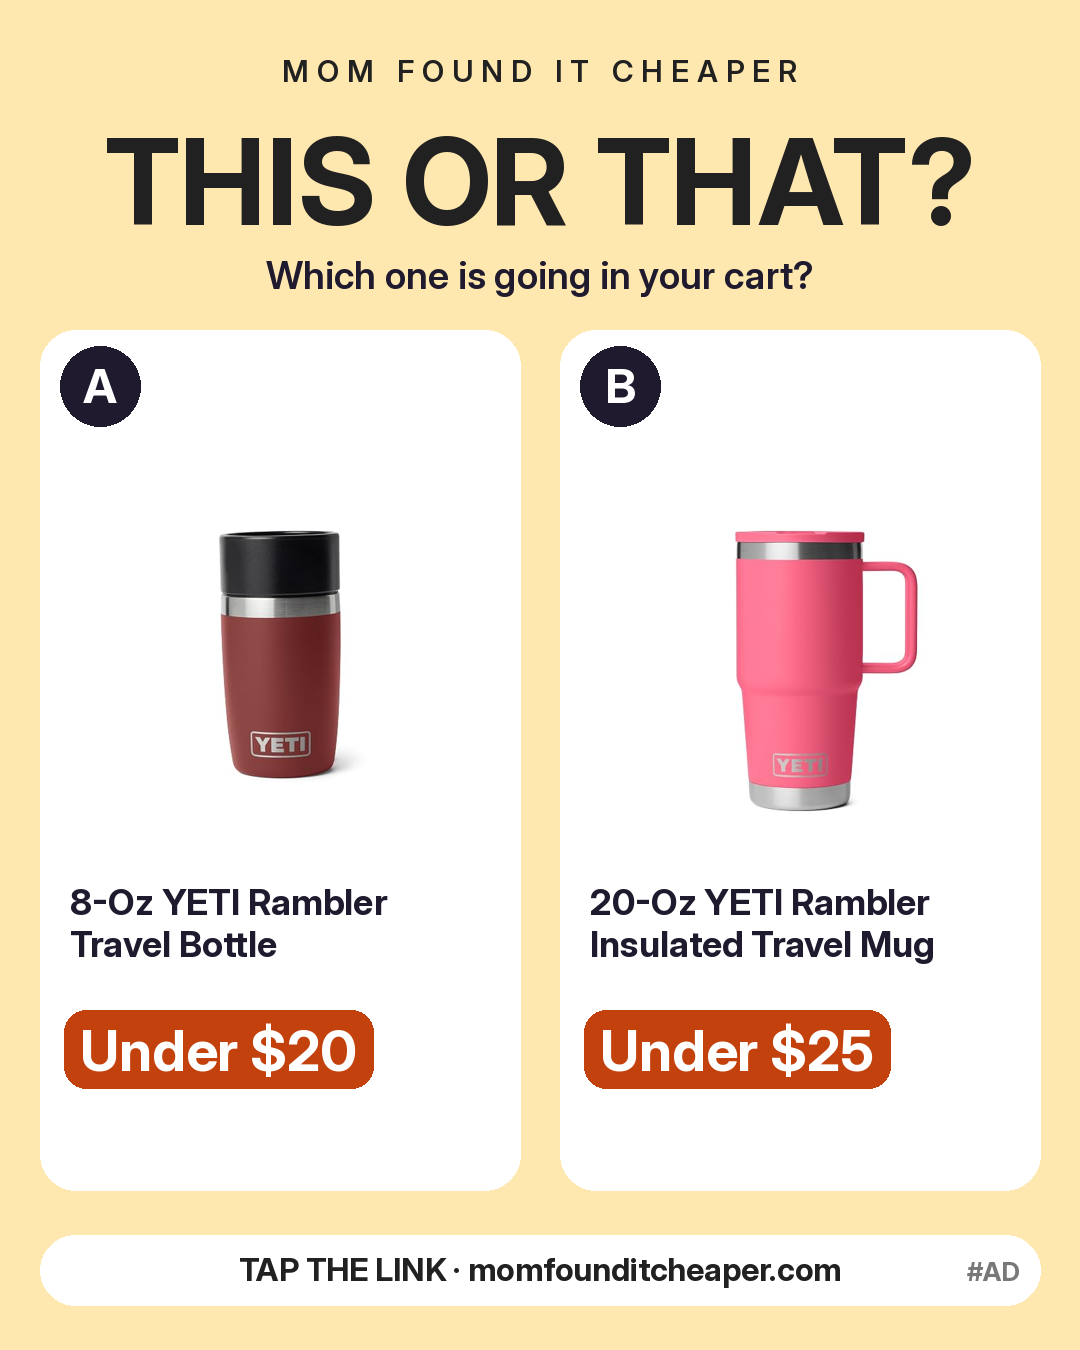
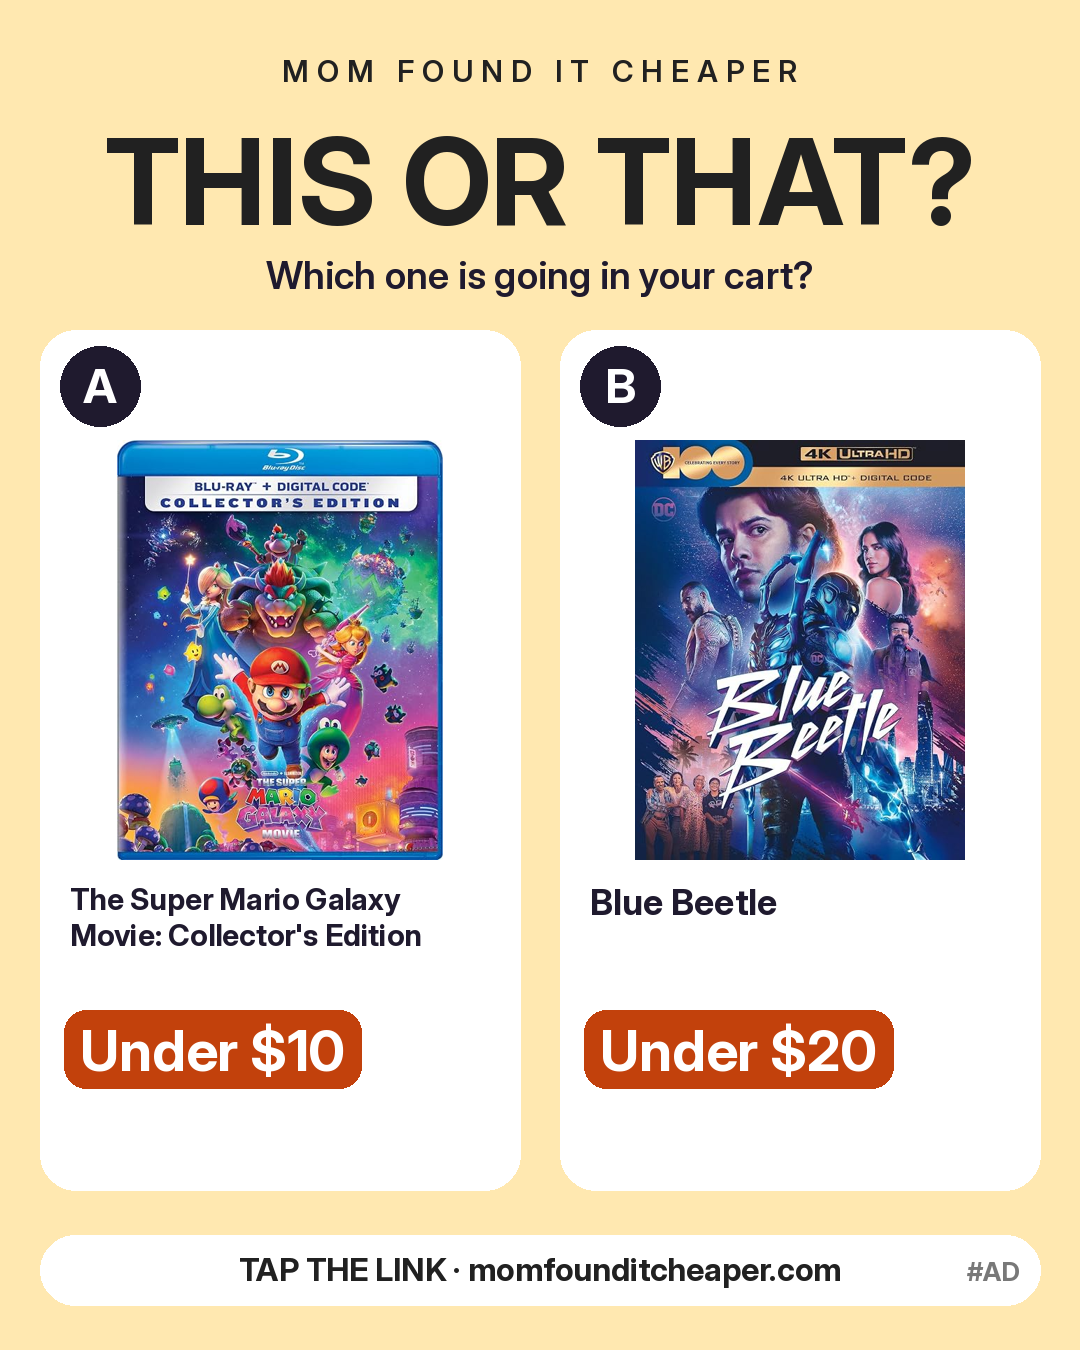
Update videos list

diff --git a/queue/QUEUE.md b/queue/QUEUE.md
@@ -2,46 +2,20 @@
 
 Reply with the numbers to approve, e.g. `post 1, q2; video 3; eng poll`. Nothing is posted until you say so.
 
-## Posts that passed strict QA (8)
-### post_1 — Under $10 finds (ok with warnings)
+## Posts that passed strict QA (2)
+### post_single — Mom's pick (ok with warnings)
 ```
 CAPTION:
-✨ Under $10 finds: HAMUNI Slouchy Beanie Unisex Soft Lightweight Headwear AC, 13" Franklin Sports Field Master V Web Baseball Mitt and Vaydeer Bluetooth Phone Lock Box
-Tell us which one you want and we will keep an eye out for more like it.
-All three, checked against Amazon this morning: https://momfounditcheaper.com/
+Mia's pick today: 12-pc Wiha 79243 Slotted Phillips & Torx Bit Selector.
+Checked against Amazon this morning. Tap for today's price.
+See it here: https://momfounditcheaper.com/#d-05d0645202
 #ad As an Amazon Associate I earn from qualifying purchases.
 
 #ad #dealsforyou #momlife #budgetfinds
 
 FIRST COMMENT (paste after posting):
 Shop here (prices and codes can change):
-HAMUNI Slouchy Beanie Unisex Soft Lightweight Headwear AC
-https://www.amazon.com/dp/B0CDPJ484V?tag=momfounditc08-20
-13" Franklin Sports Field Master V Web Baseball Mitt
-https://www.amazon.com/dp/B013LPRERW?tag=momfounditc08-20
-Vaydeer Bluetooth Phone Lock Box
-https://www.amazon.com/dp/B0GVSN566G?tag=momfounditc08-20
-As an Amazon Associate I earn from qualifying purchases.
-```
-
-### post_3 — Under $25 finds (ok)
-```
-CAPTION:
-✨ Under $25 finds: Step Lively Anti- Fatigue 2 PCS Cushioned Kitchen Mats for Floor, The Smurfs: Dreams and DUMOS 31.5 Inch Small Computer Desk
-Which would you grab first?
-All three, checked against Amazon this morning: https://momfounditcheaper.com/
-#ad As an Amazon Associate I earn from qualifying purchases.
-
-#ad #savemoney #momhacks #amazonfinds
-
-FIRST COMMENT (paste after posting):
-Shop here (prices and codes can change):
-Step Lively Anti- Fatigue 2 PCS Cushioned Kitchen Mats for Floor
-https://www.amazon.com/dp/B0F6MP7RDJ?tag=momfounditc08-20
-The Smurfs: Dreams
-https://www.amazon.com/dp/B0D7DB4X4Q?tag=momfounditc08-20
-DUMOS 31.5 Inch Small Computer Desk
-https://www.amazon.com/dp/B0HM36F6DY?tag=momfounditc08-20
+https://www.amazon.com/dp/B000F0KC4E?tag=momfounditc08-20
 As an Amazon Associate I earn from qualifying purchases.
 ```
 
@@ -49,8 +23,8 @@ As an Amazon Associate I earn from qualifying purchases.
 ```
 CAPTION:
 THIS or THAT? 🛒
-A: 8-Oz YETI Rambler Travel Bottle
-B: 20-Oz YETI Rambler Insulated Travel
+A: The Super Mario Galaxy Movie:
+B: Blue Beetle
 Which would you pick, A or B?
 Both checked against Amazon this morning: https://momfounditcheaper.com/
 #ad As an Amazon Associate I earn from qualifying purchases.
@@ -59,88 +33,8 @@ Both checked against Amazon this morning: https://momfounditcheaper.com/
 
 FIRST COMMENT (paste after posting):
 Shop here (prices and codes can change):
-A: https://www.amazon.com/dp/B0H9M99R7Y?tag=momfounditc08-20
-B: https://www.amazon.com/dp/B0FTZYTM58?tag=momfounditc08-20
-As an Amazon Associate I earn from qualifying purchases.
-```
-
-### post_q1 — Quick deal: 20% OFF (ok with warnings)
-```
-CAPTION:
-Price drop on Amazon: 14-Piece Wiha Insulated Bit Holder Screw Driver.
-Checked against Amazon this morning. Tap for today's price.
-See it here: https://momfounditcheaper.com/#d-ab1efed6ea
-#ad As an Amazon Associate I earn from qualifying purchases.
-
-#ad #savemoney #momhacks #amazonfinds
-
-FIRST COMMENT (paste after posting):
-Shop here (prices and codes can change):
-https://www.amazon.com/dp/B075FFCD9L?tag=momfounditc08-20
-As an Amazon Associate I earn from qualifying purchases.
-```
-
-### post_q3 — Quick deal: 40% OFF (ok)
-```
-CAPTION:
-Price drop on Amazon: Shark Navigator Lift-Away Vacuum.
-Checked against Amazon this morning. Tap for today's price.
-See it here: https://momfounditcheaper.com/#d-05160a6751
-#ad As an Amazon Associate I earn from qualifying purchases.
-
-#ad #amazonfinds #momfinds #founditcheaper
-
-FIRST COMMENT (paste after posting):
-Shop here (prices and codes can change):
-https://www.amazon.com/dp/B005KMDV9A?tag=momfounditc08-20
-As an Amazon Associate I earn from qualifying purchases.
-```
-
-### post_q6 — Quick deal: 30% OFF (ok)
-```
-CAPTION:
-Price drop on Amazon: NIVEA Lip Care Variety Pack 4-Count Shipped.
-Checked against Amazon this morning. Tap for today's price.
-See it here: https://momfounditcheaper.com/#d-9a505653d1
-#ad As an Amazon Associate I earn from qualifying purchases.
-
-#ad #savemoney #momhacks #amazonfinds
-
-FIRST COMMENT (paste after posting):
-Shop here (prices and codes can change):
-https://www.amazon.com/dp/B07Y91BMSK?tag=momfounditc08-20
-As an Amazon Associate I earn from qualifying purchases.
-```
-
-### post_q7 — Quick deal: 51% OFF (ok)
-```
-CAPTION:
-Price drop on Amazon: Goplus 5ft Pencil Christmas Tree.
-Checked against Amazon this morning. Tap for today's price.
-See it here: https://momfounditcheaper.com/#d-0fe85fd626
-#ad As an Amazon Associate I earn from qualifying purchases.
-
-#ad #blackfriday #momfinds #dealoftheday
-
-FIRST COMMENT (paste after posting):
-Shop here (prices and codes can change):
-https://www.amazon.com/dp/B09C1Y9DRL?tag=momfounditc08-20
-As an Amazon Associate I earn from qualifying purchases.
-```
-
-### post_q8 — Quick deal: 38% OFF (ok)
-```
-CAPTION:
-Price drop on Amazon: GNCC 2K Security Camera Indoor.
-Checked against Amazon this morning. Tap for today's price.
-See it here: https://momfounditcheaper.com/#d-348211cb19
-#ad As an Amazon Associate I earn from qualifying purchases.
-
-#ad #amazonfinds #momfinds #founditcheaper
-
-FIRST COMMENT (paste after posting):
-Shop here (prices and codes can change):
-https://www.amazon.com/dp/B0G5WWT1L1?tag=momfounditc08-20
+A: https://www.amazon.com/dp/B0GQTDPJ36?tag=momfounditc08-20
+B: https://www.amazon.com/dp/B0CFZ3132H?tag=momfounditc08-20
 As an Amazon Associate I earn from qualifying purchases.
 ```
 

diff --git a/POST_QA.md b/POST_QA.md
@@ -1,28 +1,5 @@
 # Post QA
 
-## post_1 (Under $10 finds): ok with warnings
-- WARN: name looks cut/junky: 'HAMUNI Slouchy Beanie Unisex Soft Lightweight Headwear AC'
-## post_2 (Under $15 finds): BLOCKED
-- BLOCKER: title does not match Amazon page title 'HEETA Scalp Massager Hair Growth Scrubber for Dand': Silicone Scalp Massager Just $5.63 on Am
-- BLOCKER: claims 30% off without a valid list price: Silicone Scalp Massager Just $5.63 on Am
-## post_3 (Under $25 finds): ok
-## post_4 (Black Friday early under $25): BLOCKED
-- BLOCKER: used/open-box seller (Sold by Amazon Resale and Fulf): Queen Bed Pillow 2-Pack w/ 100% Cotton C
-- BLOCKER: claims 56% off without a valid list price: Queen Bed Pillow 2-Pack w/ 100% Cotton C
-## post_5 (Tech worth a look): BLOCKED
-- BLOCKER: used/open-box seller (Sold by Amazon Resale and Fulf): monTEK Full Motion TV Wall Mount for 37"
-## post_single (Mom's pick): BLOCKED
-- BLOCKER: used/open-box seller (Sold by Amazon Resale and Fulf): TP-Link Roam 6 AX3000 Dual-Band WiFi 6 P
+## post_single (Mom's pick): ok with warnings
+- WARN: caption never names the product: $14.59* | 12-pc Wiha 79243 Slotted Phill
 ## post_thisorthat (THIS or THAT): ok
-## post_q1 (Quick deal: 20% OFF): ok with warnings
-- WARN: caption never names the product: $34.38* | 14-Piece Wiha Insulated Bit Ho
-## post_q2 (Quick deal: 17% OFF): BLOCKED
-- BLOCKER: used/open-box seller (Sold by Amazon Resale and Fulf): Razer Orochi V2 Wireless Gaming Mouse (B
-## post_q3 (Quick deal: 40% OFF): ok
-## post_q4 (Quick deal: 31% OFF): BLOCKED
-- BLOCKER: used/open-box seller (Sold by Amazon Resale and Fulf): Eureka Whirlwind Bagless Canister Vacuum
-## post_q5 (Quick deal: 19% OFF): BLOCKED
-- BLOCKER: claims 19% off without a valid list price: Amazon Basics Liquid Hand Soap 32oz 2-Pa
-## post_q6 (Quick deal: 30% OFF): ok
-## post_q7 (Quick deal: 51% OFF): ok
-## post_q8 (Quick deal: 38% OFF): ok
